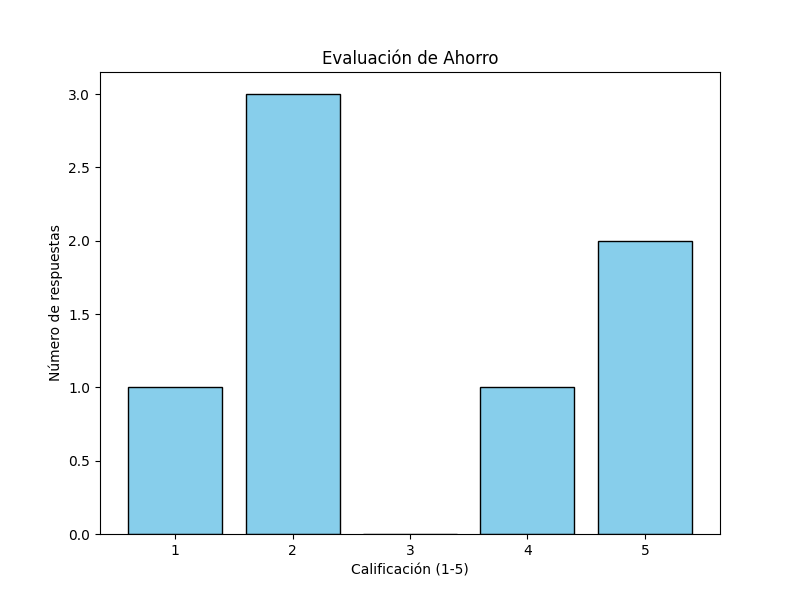
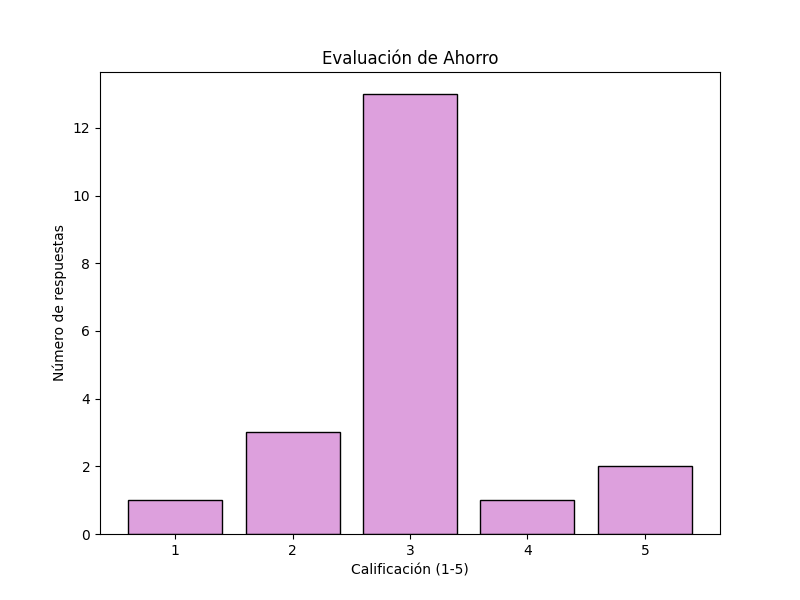
Kevin arreglo formulario insteractivo de opiniones

diff --git a/templates/opinion.html b/templates/opinion.html
@@ -44,25 +44,48 @@
                 </select>
 
                 <label for="satisfaccion">Satisfacción general (1-5):</label>
-                <input type="number" id="satisfaccion" name="satisfaccion" min="1" max="5" required>
+                <select id="satisfaccion" name="satisfaccion" required>
+                    <option value="1">1</option>
+                    <option value="2">2</option>
+                    <option value="3">3</option>
+                    <option value="4">4</option>
+                    <option value="5">5</option>
+                </select>
 
                 <label for="rendimiento">Rendimiento (1-5):</label>
-                <input type="number" id="rendimiento" name="rendimiento" min="1" max="5" required>
+                <select id="rendimiento" name="rendimiento" required>
+                    <option value="1">1</option>
+                    <option value="2">2</option>
+                    <option value="3">3</option>
+                    <option value="4">4</option>
+                    <option value="5">5</option>
+                </select>
 
                 <label for="ahorro">Ahorro (1-5):</label>
-                <input type="number" id="ahorro" name="ahorro" min="1" max="5" required>
+                <select id="ahorro" name="ahorro" required>
+                    <option value="1">1</option>
+                    <option value="2">2</option>
+                    <option value="3">3</option>
+                    <option value="4">4</option>
+                    <option value="5">5</option>
+                </select>
 
                 <label for="usabilidad">Usabilidad (1-5):</label>
-                <input type="number" id="usabilidad" name="usabilidad" min="1" max="5" required>
-
+                <select id="usabilidad" name="usabilidad" required>
+                    <option value="1">1</option>
+                    <option value="2">2</option>
+                    <option value="3">3</option>
+                    <option value="4">4</option>
+                    <option value="5">5</option>
+                </select>
                 <label for="historia">Experiencia con el vehiculo:</label>
-                <textarea id="historia" name="historia" rows="4" required></textarea>
+                <input type="text" id="historia" name="historia" required>
 
                 <button type="submit" class="cta-button">Enviar experiencia</button>
             </form>
         </section>
 
-        <section id="grafico">
+        <section>
             <div id="graficos">
                 <h2>Gráficos de Evaluaciones</h2>
                 <img src="/static/images/satisfaccion.png" alt="Gráfico de Satisfacción">

diff --git a/static/CSS/styleBlock.css b/static/CSS/styleBlock.css
@@ -59,7 +59,7 @@
     transform: translateY(-2px); /* Eleva ligeramente el botón */
 }
 
-.navbarp-link:active {
+navbarp-link:active {
     transform: translateY(0); /* Elimina la elevación al hacer clic */
     background-color: #003f7f; /* Azul aún más oscuro */
 }
@@ -426,7 +426,6 @@ section, aside {
     border-radius: 10px; /* Bordes redondeados */
     box-shadow: 0 4px 8px rgba(0, 0, 0, 0.1); /* Sombra para mejorar la estética */
 }
-
 /* Estilo para los formularios */
 form {
     background-color: #ffffff;
@@ -461,4 +460,3 @@ form button.cta-button {
 form button.cta-button:hover {
     background-color: #005582;
 }
-

diff --git a/app.py b/app.py
@@ -127,7 +127,7 @@ def generar_grafico(experiencias):
     """
     # Inicializar contadores de calificaciones (1-5) para cada categoría
     categorias = {
-        "Satisfacción": [0] * 5,
+        "Satisfaccion": [0] * 5,
         "Rendimiento": [0] * 5,
         "Ahorro": [0] * 5,
         "Usabilidad": [0] *5
@@ -135,7 +135,7 @@ def generar_grafico(experiencias):
 
     # Contar las calificaciones en cada categoría
     for experiencia in experiencias:
-        categorias["Satisfacción"][experiencia['satisfaccion'] - 1] += 1
+        categorias["Satisfaccion"][experiencia['satisfaccion'] - 1] += 1
         categorias["Rendimiento"][experiencia['rendimiento'] - 1] += 1
         categorias["Ahorro"][experiencia['ahorro'] - 1] += 1
         categorias["Usabilidad"][experiencia['usabilidad'] - 1] += 1
@@ -151,7 +151,14 @@ def generar_grafico(experiencias):
         x = np.arange(1, 6)  # Calificaciones de 1 a 5
 
         # Crear gráfico de barras
-        ax.bar(x, datos, color='skyblue', edgecolor='black')
+        if (categoria == "Satisfaccion"):
+            ax.bar(x, datos, color='skyblue', edgecolor='black')
+        elif (categoria == "Rendimiento"):
+            ax.bar(x, datos, color='salmon', edgecolor='black')
+        elif (categoria == "Ahorro"):
+            ax.bar(x, datos, color='plum', edgecolor='black')
+        elif (categoria == "Usabilidad"):
+            ax.bar(x, datos, color='palegreen', edgecolor='black')
 
         # Etiquetas y título del gráfico
         ax.set_title(f'Evaluación de {categoria}')
